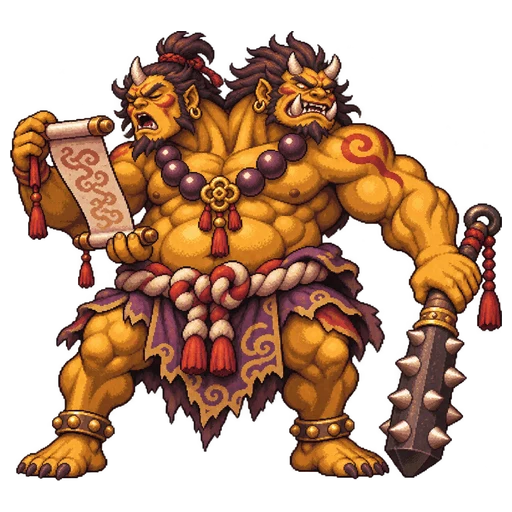
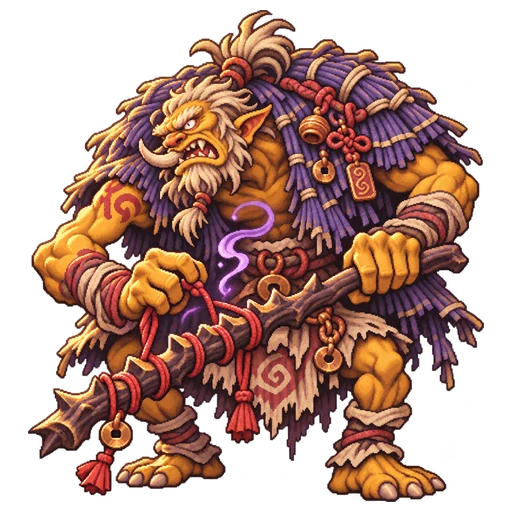
双頭を門衛一種に絞り、口喧嘩オーガを灰撒きオーガに刷新

diff --git a/config/shared/reference-catalog.js b/config/shared/reference-catalog.js
@@ -30739,6 +30739,18 @@ export const referenceData={
       "file": "jobs.json",
       "path": [
         "skills",
+        "family_ogre_20_quarrel",
+        "effects",
+        0,
+        "status"
+      ],
+      "kind": "statuses",
+      "id": "blindness"
+    },
+    {
+      "file": "jobs.json",
+      "path": [
+        "skills",
         "family_ogre_20_singer",
         "effects",
         0,
@@ -48515,13 +48527,13 @@ export const referenceData={
         "name": "双頭警戒"
       },
       "family_ogre_20_hex": {
-        "name": "双頭呪法"
+        "name": "結び呪い"
       },
       "family_ogre_20_quarrel": {
-        "name": "二声の挑発"
+        "name": "灰かぶせ"
       },
       "family_ogre_20_singer": {
-        "name": "双声の和音"
+        "name": "癒やしの独唱"
       },
       "family_goblin_25_king": {
         "name": "小王の号令"
@@ -49412,7 +49424,7 @@ export const referenceData={
         "sprite": "monster_ogre_20_hex"
       },
       "ogre_20_quarrel": {
-        "name": "口喧嘩オーガ",
+        "name": "灰撒きオーガ",
         "sprite": "monster_ogre_20_quarrel"
       },
       "ogre_20_singer": {
@@ -84889,7 +84901,7 @@ export const referenceData={
       "monster_ogre_20_twinclubs": "assets/images/monsters/families/ogre_20_twinclubs.webp",
       "monster_ogre_20_warden": "assets/images/monsters/families/ogre_20_warden.webp",
       "monster_ogre_20_hex": "assets/images/monsters/families/ogre_20_hex.webp",
-      "monster_ogre_20_quarrel": "assets/images/monsters/families/ogre_20_quarrel.webp",
+      "monster_ogre_20_quarrel": "assets/images/monsters/families/ogre_20_ashsack.webp",
       "monster_ogre_20_singer": "assets/images/monsters/families/ogre_20_singer.webp",
       "monster_goblin_25_king": "assets/images/monsters/families/goblin_25_king.webp",
       "monster_goblin_25_guard": "assets/images/monsters/families/goblin_25_guard.webp",

diff --git a/src/core/monster-family-field.js b/src/core/monster-family-field.js
@@ -92,13 +92,7 @@ export function familyIntercept(engine,source,targets,skill) {
   const s=engine.state,b=s.battle,f=b.familyField;
   if (!f||source.instance||targets.length!==1||!targets[0].instance||!skill.effects.some(e=>e.type==='damage')) return targets;
   const active=living(s,b.enemies);
-  const taunt=active.find(e=>profession(e)==='quarrel'&&e.tactics?.challenged?.includes(source.id));
-  const target=taunt??targets[0];
-  if (taunt&&target!==targets[0]) b.log.push(label(engine,source)+'は'+taunt.name+'の挑発に乗った。');
-  if (profession(target)==='quarrel'&&target.tactics?.challenged?.includes(source.id)) {
-    const replies=tactics(target).replies??=[];
-    if (!replies.includes(source.id)) replies.push(source.id);
-  }
+  const [target]=targets;
   const wall=active.find(e=>e.tactics?.wall===depth(s,target));
   if (wall) { delete wall.tactics.wall; b.log.push(wall.name+'の防壁が一撃を止めた。'); return []; }
   if (f.owl===target.instance) { delete f.owl; b.log.push('梟の声で'+target.name+'は一撃をかわした。'); return []; }
@@ -191,7 +185,6 @@ export function familySaveValid(data,state) {
     if(t.windup!==undefined&&(!record(t.windup)||!tier(t.windup.row)||!tier(t.windup.left)))return false;
     for(const k of ['lastAttack','lastSpecial'])if(t[k]!==undefined&&!Object.hasOwn(data.skills,t[k]))return false;
     if(t.honored!==undefined&&(!Array.isArray(t.honored)||t.honored.some(id=>!enemies.has(id))))return false;
-    for(const k of ['replies','challenged'])if(t[k]!==undefined&&(!Array.isArray(t[k])||t[k].some(id=>!actors.has(id))))return false;
     for(const k of ['clay','heir','cover'])if(t[k]!==undefined&&!enemies.has(t[k]))return false;
     if(t.rage!==undefined&&(!Number.isInteger(t.rage)||t.rage<0||t.rage>3))return false;
   }

diff --git a/src/core/save.js b/src/core/save.js
@@ -207,7 +207,32 @@ function migrateSettlementGeography(original,data){
   }
   return save;
 }
+function migrateTwoHeadedOgres(original,data){
+  const isOldOgre = enemy => enemy?.breed === 'ツインヘッドオーガ';
+  const enemies = original?.state?.battle?.enemies;
+  if (!Array.isArray(enemies) || !enemies.some(isOldOgre)) return original;
+  if (enemies.some(enemy => isOldOgre(enemy) && !data.enemies[enemy.id])) {
+    data = shiftingDungeonData(data);
+  }
+  const save = clone(original);
+  for (const enemy of save.state.battle.enemies.filter(isOldOgre)) {
+    const definition = data.enemies[enemy.id];
+    if (definition?.breed !== '黄土オーガ') continue;
+    Object.assign(enemy, {name: definition.name, breed: definition.breed, role: definition.role});
+    if (definition.classSkill === 'family_ogre_20_quarrel') {
+      const rule = enemy.ai?.[0];
+      if (rule?.skill === definition.classSkill && rule.target === 'self') rule.target = 'random';
+      if (isRecord(enemy.tactics)) {
+        delete enemy.tactics.challenged;
+        delete enemy.tactics.replies;
+      }
+    }
+  }
+  return save;
+}
+
 export function migrateSave(original,data){
+  original = migrateTwoHeadedOgres(original,data);
   // The old cap allowed excess XP. Validate the previous state before applying
   // the outstanding growth, preserving current HP, MP and in-flight battles.
   if(original?.levelCap===undefined && data.system.maxLevel>30 && isRecord(original?.state?.actors) &&

diff --git a/src/core/monster-family-actions.js b/src/core/monster-family-actions.js
@@ -213,10 +213,10 @@ export function familyTurn(engine,e,{cast,order},bonus=false) {
       const [key]=b.turnQueue.splice(at,1);return command(mates.find(u=>unitKey(u)===key));
     }
     case 'twinclubs':return use(target);
-    case 'quarrel':
-      if(t.replies?.length===1){delete t.challenged;delete t.replies;say('二つの頭が口論を始めた。');return;}
-      if(t.challenged){delete t.challenged;delete t.replies;return attack();}
-      t.challenged=foes.slice(0,2).map(u=>u.id);t.replies=[];return signal();
+    case 'quarrel': // The ash thrower retains the original class ID for saved battles.
+      if (t.spent) return attack();
+      t.spent = true;
+      return use(row(depth(s, front)));
     case 'singer':
       if(!all.some(u=>u.hp<u.stats.hp))return attack();
       if(ready()!==null)use(all);return;

diff --git a/doc/battle/MONSTER_CATALOG.md b/doc/battle/MONSTER_CATALOG.md
@@ -2367,7 +2367,7 @@ AIの選択順：
 画像ID：monster_ogre_20_twinclubs。実ファイル：[assets/images/monsters/families/ogre_20_twinclubs.webp](../../assets/images/monsters/families/ogre_20_twinclubs.webp)。
 画像共有：他の敵定義との共有なし。
 
-レベル帯：Lv20　種名：ツインヘッドオーガ。[種別図鑑で開く](https://tomtomyoung.github.io/adv/labyrinth-guide.html#monsters/ogre/ogre_20_twinclubs)。
+レベル帯：Lv20　種名：黄土オーガ。[種別図鑑で開く](https://tomtomyoung.github.io/adv/labyrinth-guide.html#monsters/ogre/ogre_20_twinclubs)。
 
 設計上の役割：左の小振りと右の強打を同じ相手へ重ねます。
 
@@ -2393,9 +2393,9 @@ AIの選択順：
 画像ID：monster_ogre_20_warden。実ファイル：[assets/images/monsters/families/ogre_20_warden.webp](../../assets/images/monsters/families/ogre_20_warden.webp)。
 画像共有：他の敵定義との共有なし。
 
-レベル帯：Lv20　種名：ツインヘッドオーガ。[種別図鑑で開く](https://tomtomyoung.github.io/adv/labyrinth-guide.html#monsters/ogre/ogre_20_warden)。
+レベル帯：Lv20　種名：黄土オーガ。[種別図鑑で開く](https://tomtomyoung.github.io/adv/labyrinth-guide.html#monsters/ogre/ogre_20_warden)。
 
-設計上の役割：二つの頭を使って後列への攻撃を見張り、肩代わりします。
+設計上の役割：片方の頭が敵をにらみ、もう片方が後方を見張ります。いちばん後ろの仲間への一撃を門扉の盾で受けます。
 
 基礎能力：HP 195 / MP 4 / STR 28 / VIT 33 / AGI 8 / INT 20。報酬：10G / 32EXP。
 宝箱：薬効葉 1個 / 12.5％。
@@ -2403,7 +2403,7 @@ AIの選択順：
 
 AIの選択順：
 
-1. 双頭警戒 (family_ogre_20_warden)：二つの頭を使って後列への攻撃を見張り、肩代わりします。
+1. 双頭警戒 (family_ogre_20_warden)：片方の頭が敵をにらみ、もう片方が後方を見張ります。いちばん後ろの仲間への一撃を門扉の盾で受けます。
 2. 優先度0、条件なし：攻撃 (attack)、MP0、対象は探索隊の生存者からランダムに1人。
 
 遭遇と参照先：
@@ -2419,9 +2419,9 @@ AIの選択順：
 画像ID：monster_ogre_20_hex。実ファイル：[assets/images/monsters/families/ogre_20_hex.webp](../../assets/images/monsters/families/ogre_20_hex.webp)。
 画像共有：他の敵定義との共有なし。
 
-レベル帯：Lv20　種名：ツインヘッドオーガ。[種別図鑑で開く](https://tomtomyoung.github.io/adv/labyrinth-guide.html#monsters/ogre/ogre_20_hex)。
+レベル帯：Lv20　種名：黄土オーガ。[種別図鑑で開く](https://tomtomyoung.github.io/adv/labyrinth-guide.html#monsters/ogre/ogre_20_hex)。
 
-設計上の役割：一方の頭で詠唱し、詠唱中に攻撃した相手にはもう一方が噛みつきます。
+設計上の役割：棘杖に呪い紐を結び、次の手番に相手を呪います。詠唱中に傷を負うと、攻撃した相手に杖で反撃します。
 
 基礎能力：HP 195 / MP 4 / STR 28 / VIT 33 / AGI 8 / INT 20。報酬：10G / 32EXP。
 宝箱：薬効葉 1個 / 12.5％。
@@ -2429,7 +2429,7 @@ AIの選択順：
 
 AIの選択順：
 
-1. 双頭呪法 (family_ogre_20_hex)：一方の頭で詠唱し、詠唱中に攻撃した相手にはもう一方が噛みつきます。
+1. 結び呪い (family_ogre_20_hex)：棘杖に呪い紐を結び、次の手番に相手を呪います。詠唱中に傷を負うと、攻撃した相手に杖で反撃します。
 2. 優先度0、条件なし：攻撃 (attack)、MP0、対象は探索隊の生存者からランダムに1人。
 
 遭遇と参照先：
@@ -2438,16 +2438,16 @@ AIの選択順：
 
 <a id="monster-ogre_20_quarrel"></a>
 
-### 口喧嘩オーガ (ogre_20_quarrel)
+### 灰撒きオーガ (ogre_20_quarrel)
 
-<img src="../../assets/images/monsters/families/ogre_20_quarrel.webp" width="160" alt="口喧嘩オーガ">
+<img src="../../assets/images/monsters/families/ogre_20_ashsack.webp" width="160" alt="灰撒きオーガ">
 
-画像ID：monster_ogre_20_quarrel。実ファイル：[assets/images/monsters/families/ogre_20_quarrel.webp](../../assets/images/monsters/families/ogre_20_quarrel.webp)。
+画像ID：monster_ogre_20_quarrel。実ファイル：[assets/images/monsters/families/ogre_20_ashsack.webp](../../assets/images/monsters/families/ogre_20_ashsack.webp)。
 画像共有：他の敵定義との共有なし。
 
-レベル帯：Lv20　種名：ツインヘッドオーガ。[種別図鑑で開く](https://tomtomyoung.github.io/adv/labyrinth-guide.html#monsters/ogre/ogre_20_quarrel)。
+レベル帯：Lv20　種名：黄土オーガ。[種別図鑑で開く](https://tomtomyoung.github.io/adv/labyrinth-guide.html#monsters/ogre/ogre_20_quarrel)。
 
-設計上の役割：二人を挑発し、片方だけが応じると頭同士が揉めて一手休みます。
+設計上の役割：最初の手番に、相手がいる最前列へ袋の灰を一度だけ撒いて「くらやみ」にします。袋が空になると通常攻撃に切り替えます。
 
 基礎能力：HP 110 / MP 8 / STR 24 / VIT 12 / AGI 13 / INT 28。報酬：10G / 32EXP。
 宝箱：薬効葉 1個 / 12.5％。
@@ -2455,7 +2455,7 @@ AIの選択順：
 
 AIの選択順：
 
-1. 二声の挑発 (family_ogre_20_quarrel)：二人を挑発し、片方だけが応じると頭同士が揉めて一手休みます。
+1. 灰かぶせ (family_ogre_20_quarrel)：最初の手番に、相手がいる最前列へ袋の灰を一度だけ撒いて「くらやみ」にします。袋が空になると通常攻撃に切り替えます。
 2. 優先度0、条件なし：攻撃 (attack)、MP0、対象は探索隊の生存者からランダムに1人。
 
 遭遇と参照先：
@@ -2471,9 +2471,9 @@ AIの選択順：
 画像ID：monster_ogre_20_singer。実ファイル：[assets/images/monsters/families/ogre_20_singer.webp](../../assets/images/monsters/families/ogre_20_singer.webp)。
 画像共有：他の敵定義との共有なし。
 
-レベル帯：Lv20　種名：ツインヘッドオーガ。[種別図鑑で開く](https://tomtomyoung.github.io/adv/labyrinth-guide.html#monsters/ogre/ogre_20_singer)。
+レベル帯：Lv20　種名：黄土オーガ。[種別図鑑で開く](https://tomtomyoung.github.io/adv/labyrinth-guide.html#monsters/ogre/ogre_20_singer)。
 
-設計上の役割：二つの声を揃え、味方全員のHPを回復します。
+設計上の役割：傷ついた仲間がいると竪琴を爪弾き、次の手番に独唱で味方全員のHPを回復します。
 
 基礎能力：HP 110 / MP 8 / STR 24 / VIT 12 / AGI 13 / INT 28。報酬：10G / 32EXP。
 宝箱：薬効葉 1個 / 12.5％。
@@ -2481,7 +2481,7 @@ AIの選択順：
 
 AIの選択順：
 
-1. 双声の和音 (family_ogre_20_singer)：二つの声を揃え、味方全員のHPを回復します。
+1. 癒やしの独唱 (family_ogre_20_singer)：傷ついた仲間がいると竪琴を爪弾き、次の手番に独唱で味方全員のHPを回復します。
 2. 優先度0、条件なし：攻撃 (attack)、MP0、対象は探索隊の生存者からランダムに1人。
 
 遭遇と参照先：

diff --git a/doc/battle/STATUS_CATALOG.md b/doc/battle/STATUS_CATALOG.md
@@ -28,7 +28,7 @@
 
 分類：身体・環境状態。
 持続：解除まで。
-付与元：途切れぬ呪詠 (valley_curse) / 双頭呪法 (family_ogre_20_hex)。
+付与元：途切れぬ呪詠 (valley_curse) / 結び呪い (family_ogre_20_hex)。
 
 #### Lv1
 
@@ -172,7 +172,7 @@
 
 分類：身体異常。
 持続：解除まで。
-付与元：煤払い (soot_beetle_dust)。
+付与元：灰かぶせ (family_ogre_20_quarrel) / 煤払い (soot_beetle_dust)。
 
 #### Lv1
 
